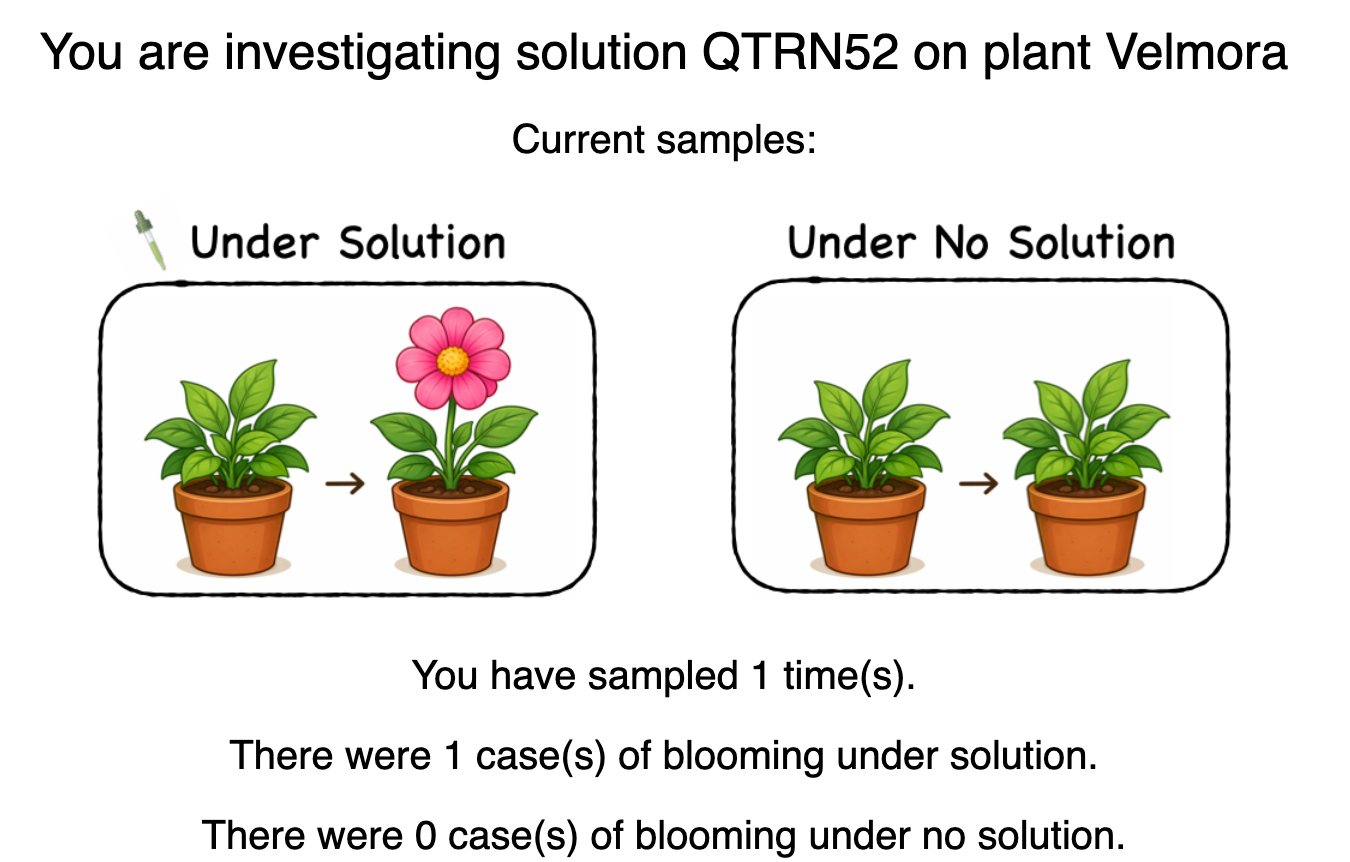
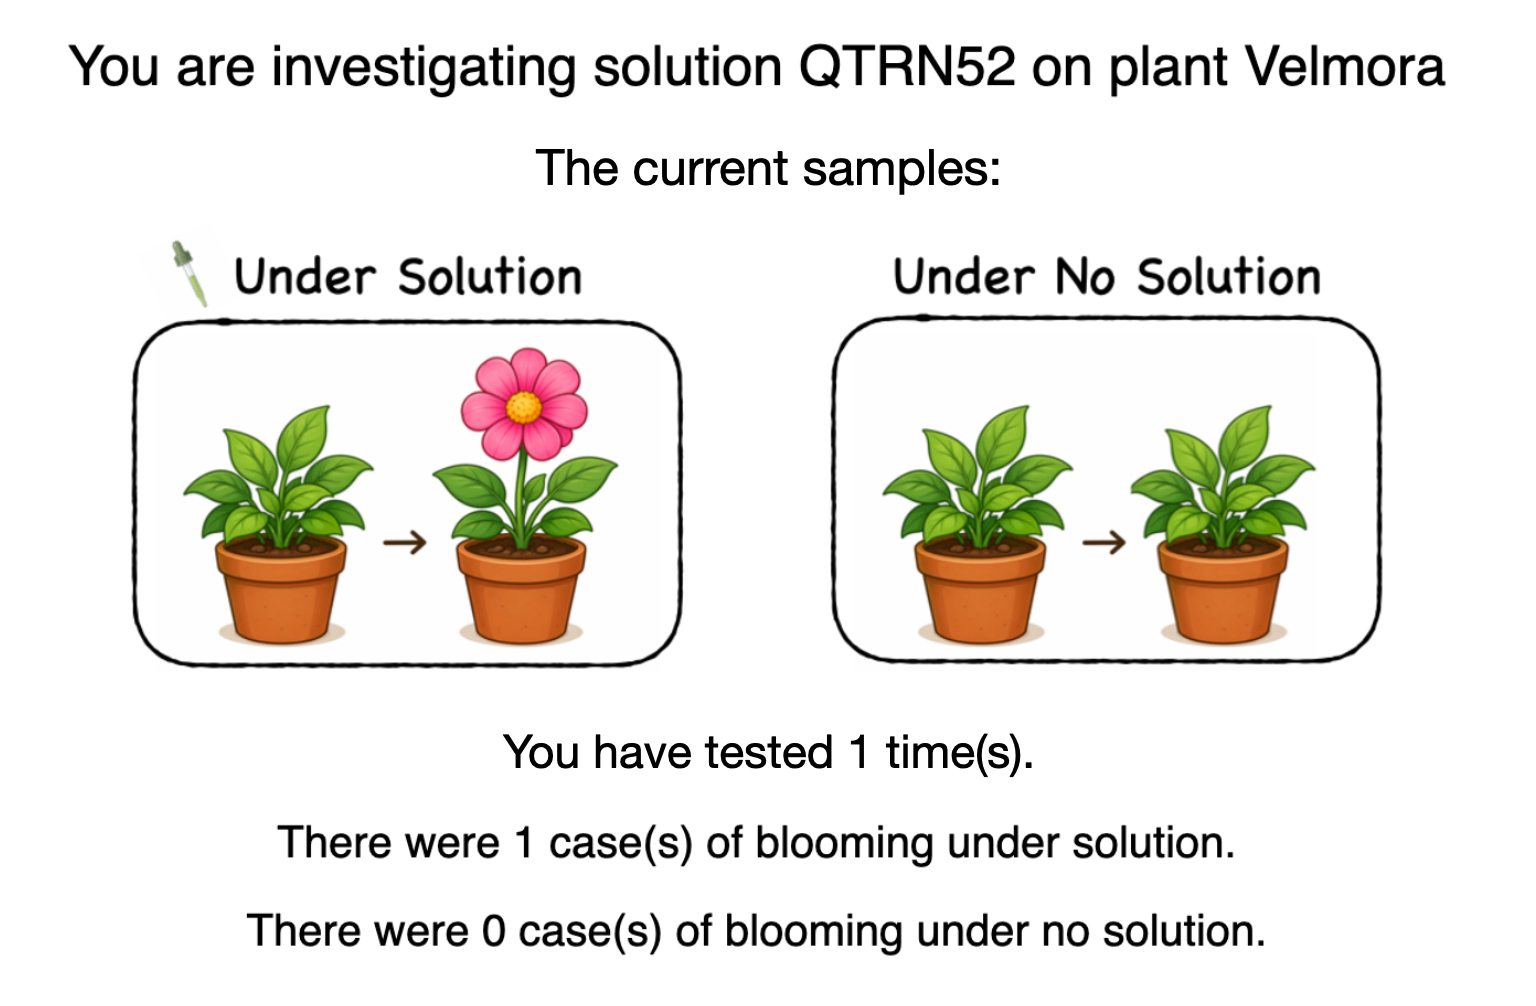
upper limit change

diff --git a/index.html b/index.html
@@ -62,7 +62,7 @@
 			<br>
 			<p>The first part of the task will have 36 trials. In each trial, you will be asked to judge how effectively a completely new solution (e.g., QTRN52) promotes the blooming of a completely new species of plant (e.g., Velmora — a fictitious name). All solutions have been pre-tested to ensure that they do not prevent any plants from blooming.</p>
 
-			<p>You can gather information by clicking the “Test” button. Each time you click “Test”, you will observe a pair of two plants: one that has received the treatment and one that has not. This allows you to compare outcomes under treatment and no treatment. In each trial, you can test up to 30 times.</p>
+			<p>You can gather information by clicking the “Test” button. Each time you click “Test”, you will observe a pair of two plants: one that has received the treatment and one that has not. This allows you to compare outcomes under treatment and no treatment. </p>
 			<br>
 			<div style="text-align: center;"><img src="static/img/demo.png" style="width:400px;border: solid 1px;"></div>
 			<br>
@@ -119,6 +119,8 @@
 			</div>
 
 			<p><b>If your answer is correct, you will receive a bonus of £1, minus £0.01 for each time you click “Test”. If your answer is incorrect, you will not receive any bonus. The final bonus will be determined by randomly selecting one of the 36 trials.</b></p>
+
+			<p>In each trial you can test up to 60 times. This limit is an upper bound only; it is not a target or expected number of tests, and it does not provide any information about the correct answer. Please decide when to stop based on the evidence observed so far, the reward for a correct judgment, and the cost of each additional test.</p>
 
 			<p>You will then be asked how confident you are in your response. This will not affect your reward, so please try to rate your confidence as accurately as possible. Please avoid always choosing the same one or two confidence levels. Use three of them: </p>
 
@@ -236,13 +238,13 @@
 	<div id="ani_container" class="ctn" style=";padding:5px;margin-left: auto;margin-right: auto;">
 
 	<div id="hint_name" style="color:black;text-align: center; font-size:25px; margin-top: 10px;">You are investigating solution A on plant B</div>
-	<div id="current_sample" style="color:black;text-align: center;font-size: 20px;margin-top:10px;">Current samples:</div>
+	<div id="current_sample" style="color:black;text-align: center;font-size: 20px;margin-top:10px;">The current samples:</div>
 
 		<div id="divPlot" style="width: 880px;margin-bottom: 10px;margin-left: auto;margin-right: auto;text-align: center;">
 			<img id="img_sti"  width="600" src="static/sti/outblank.png">
 		</div>
 
-	<div id="hint_sample" style="color:black;font-size: 20px;text-align:center;">You have sampled X time(s).</div>
+	<div id="hint_sample" style="color:black;font-size: 20px;text-align:center;">You have tested X time(s).</div>
 	<div id="hint_ne" style="color:black;font-size: 20px;text-align:center;margin-top:10px;">There were X case(s) of blooming under solution.</div>
 	<div id="hint_nc" style="color:black;font-size: 20px;text-align:center;margin-top:10px;">There were X case(s) of blooming under no solution.</div>
 

diff --git a/static/js/main.js b/static/js/main.js
@@ -257,7 +257,7 @@ function btn_test_click(){
 
 	setTimeout(showout,500) 
 
-	if (sp_num<30){setTimeout(resample,1000)}else{
+	if (sp_num<60){setTimeout(resample,1000)}else{
 		$("#btn_stop").prop('disabled', false);
 	}
 
@@ -274,7 +274,7 @@ function resample(){
 }
 
 function hint_update(){//sp_num,ne_num,nc_num
-	$("#hint_sample").html("You have sampled "+sp_num+" time(s).");
+	$("#hint_sample").html("You have tested "+sp_num+" time(s).");
 	$("#hint_ne").html("There were "+ne_num+" case(s) of blooming under solution.");
 	$("#hint_nc").html("There were "+nc_num+" case(s) of blooming under no solution.");
 }
